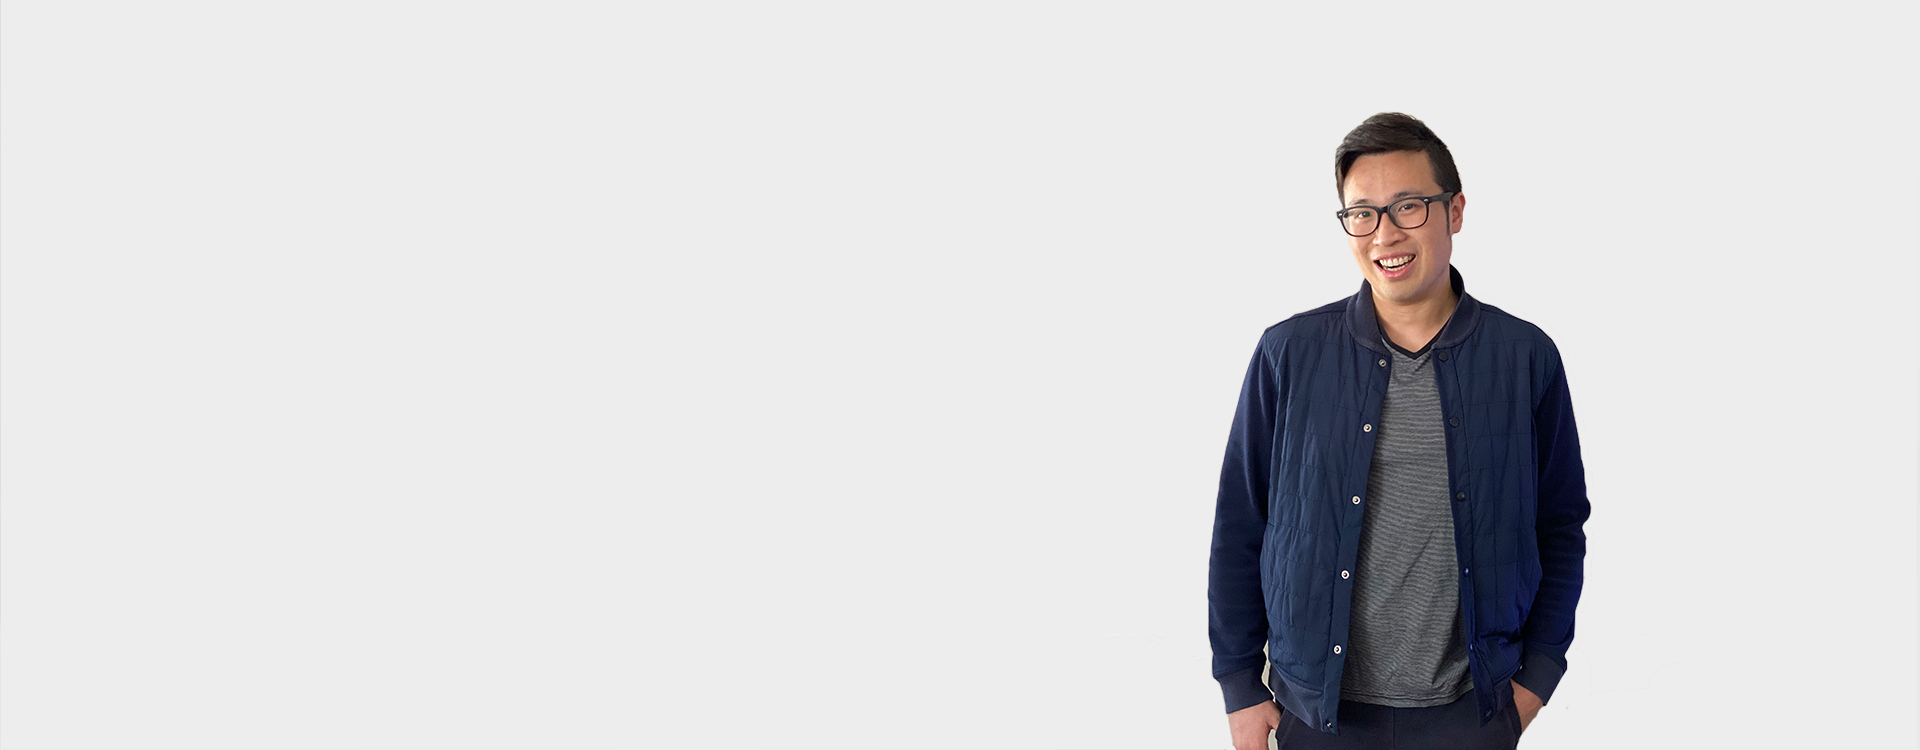
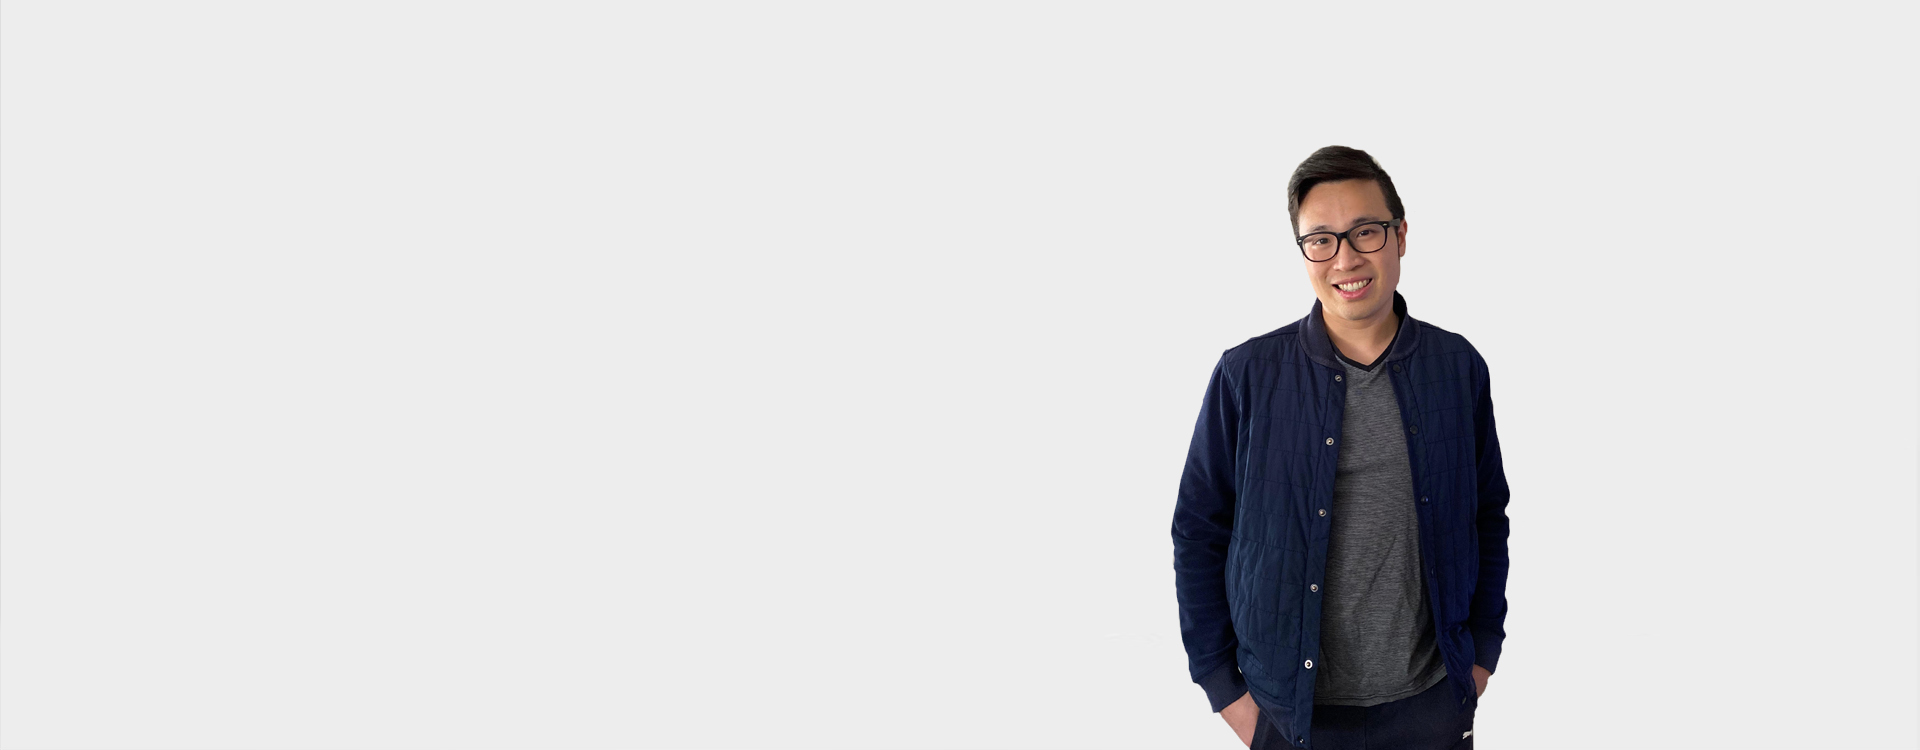
change photo

Changed region(s): [[0.5938, 0.1533, 0.8438, 1.0]]

diff --git a/public/css/styles.css b/public/css/styles.css
@@ -50,7 +50,7 @@ footer{padding:50px 0}
 .heading{position:relative;display:inline-block;font-size:2em;font-weight:300;margin:0 0 30px 0}
 .heading:after{position:absolute;content:'';top:100%;height:1px;width:50px;left:0;right:0;margin:0 auto;background:#3498db}
 .background-alt{background:#f2f2f5}
-#lead{position:relative;height:100vh;min-height:500px;max-height:1080px;background:url(../images/person-2.jpg);background-size:cover;padding:15px;overflow:hidden}
+#lead{position:relative;height:100vh;min-height:500px;max-height:1080px;background:url(../images/person-1.jpg);background-size:cover;padding:15px;overflow:hidden}
 #lead-content{position:absolute;z-index:10;top:50%;left:25%;transform:translate(-50%, -50%);text-align:center}
 #lead-content h1,#lead-content h2{margin:0}
 #lead-content h1{color:#374054;font-weight:900;font-size:5em;text-transform:uppercase;letter-spacing:0.05em;line-height:0.9em}
